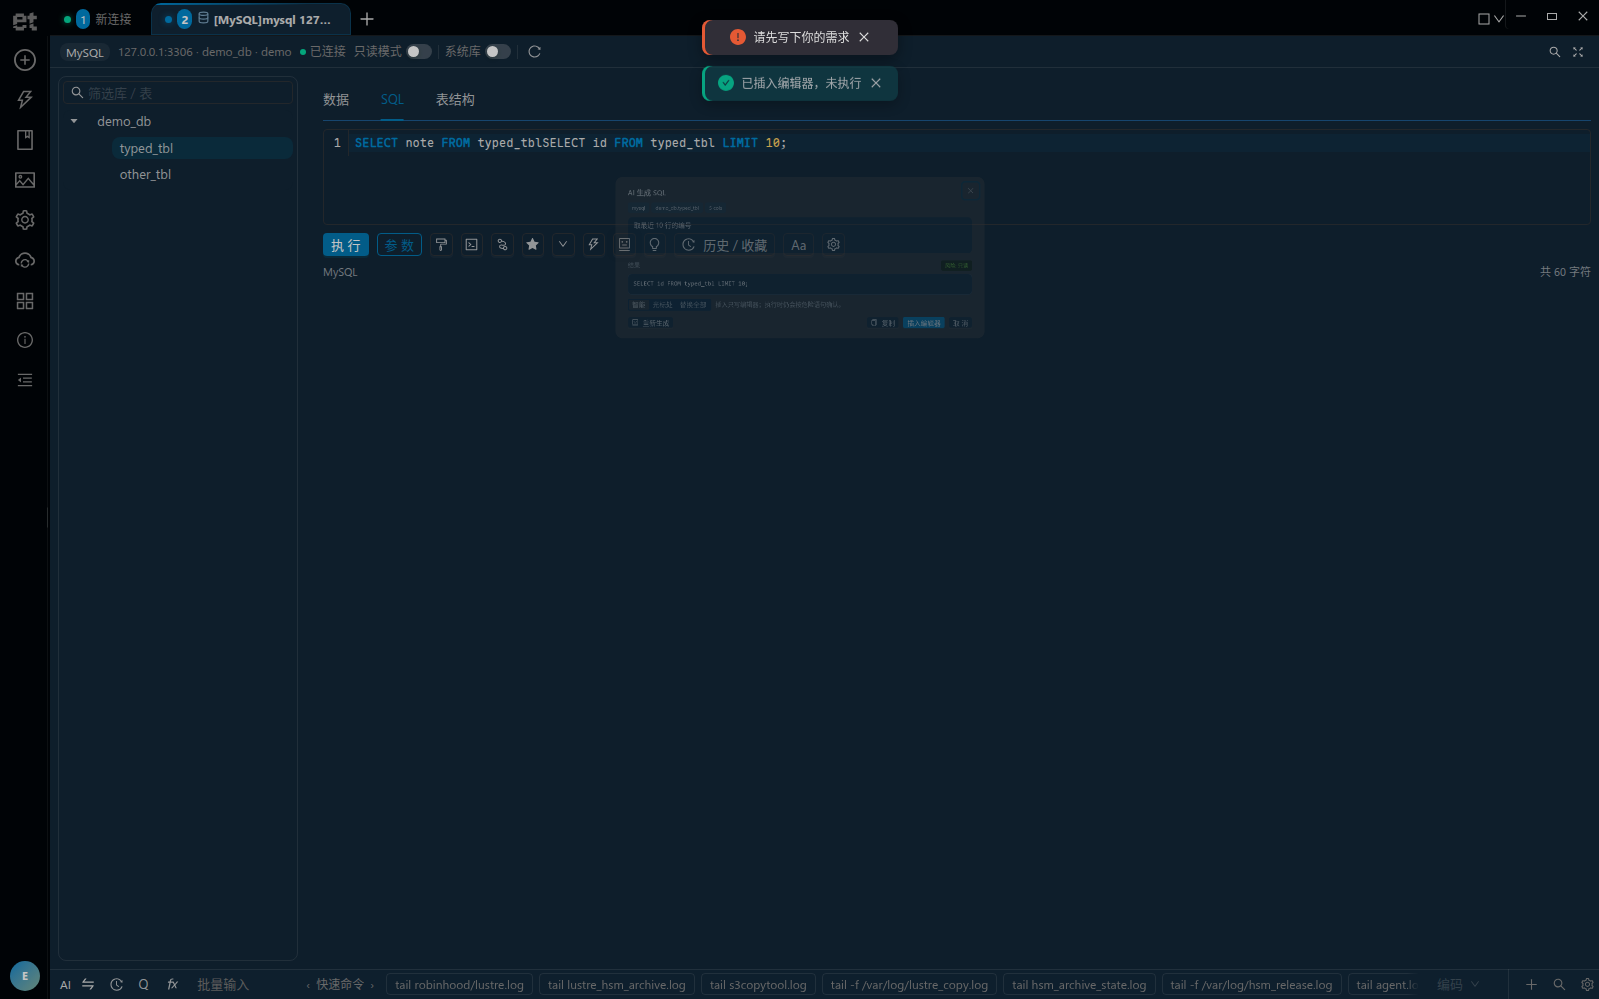
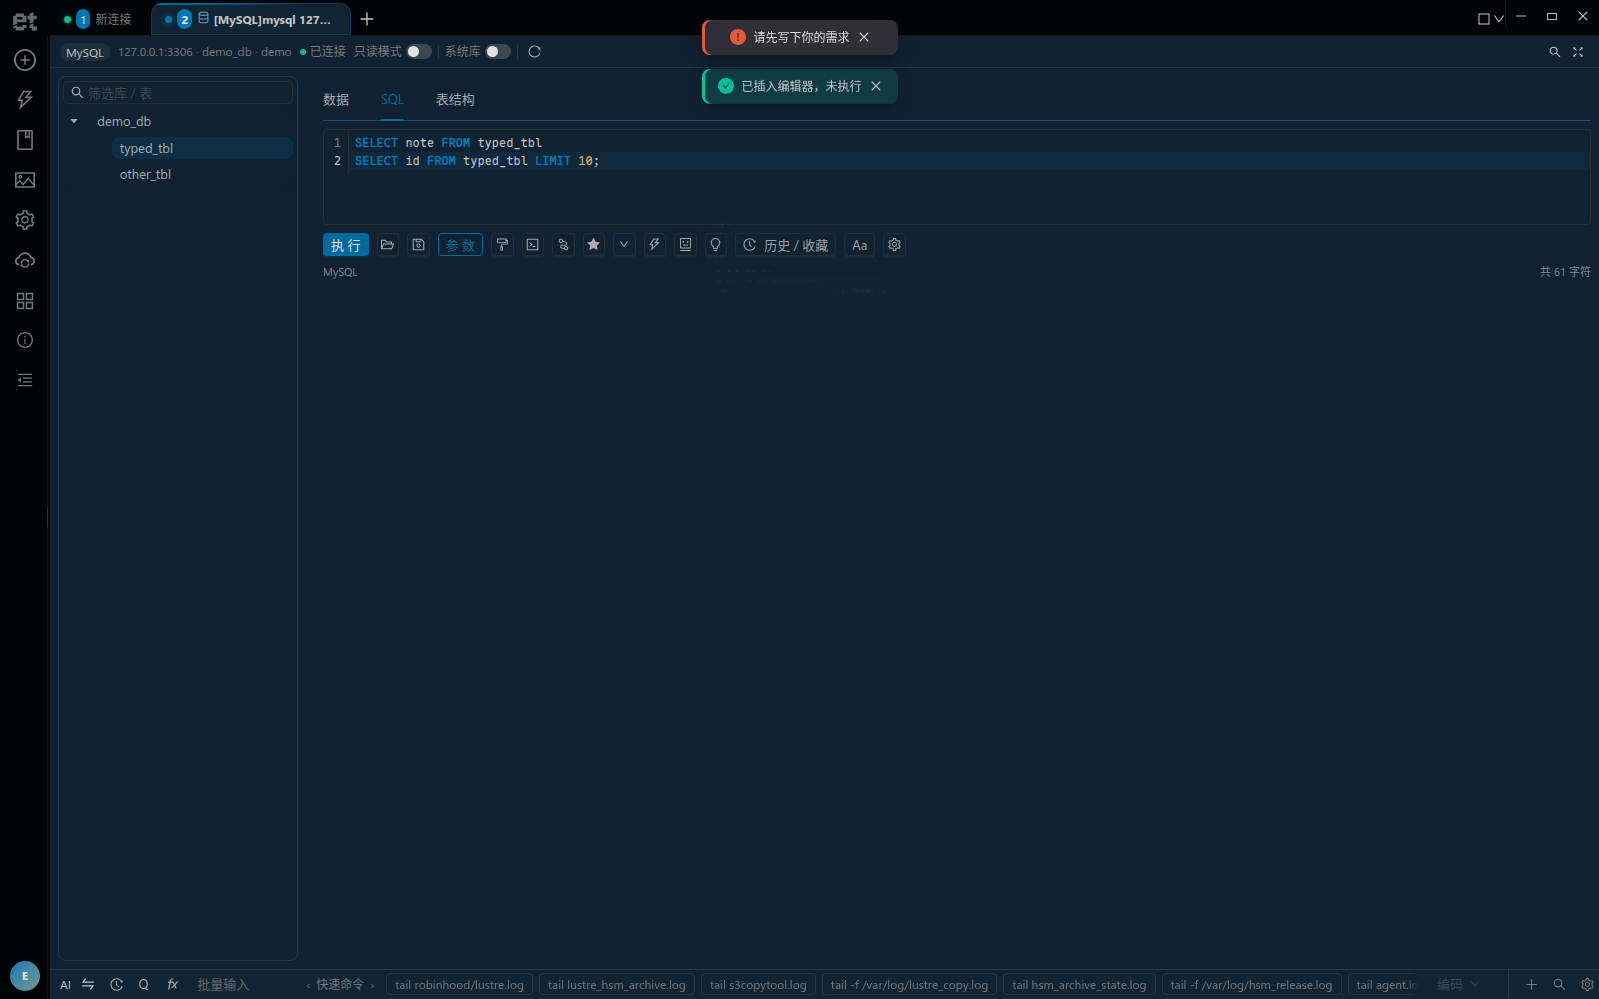
fix(db): AI 产出插到光标处时补语句分隔，不再两句粘成一句
实机截图量到：编辑器已有 "SELECT a FROM t"、光标停在文末时，AI 的产出直接贴上去会
写成 "SELECT a FROM tSELECT b FROM u"——看着像模型坏了，缺的是分隔。planSqlInsertion
在纯插入（既没替换选区也没整篇替换）时按落点两侧补换行：紧挨空白字符、或产出自己
带首尾空白就不补；替换选区不补，人选中的就是那一段，边界不该被偷偷加宽。

两个调用点（会话页的弹层与对话里的 SQL 块）同步改写成 plan.text——原来传的是原始
text，等于把策略层刚补的分隔又丢掉。

定向单测 69/69，实机（CDP）验收 42/42：新增"会失败的语句确实写进 doc"这条前置判据，
focusEditor 在弹层遮罩淡出未退时重试，避免用例前置塌了却报成产品缺陷。

diff --git a/self-test/db-sql-ai-demo.js b/self-test/db-sql-ai-demo.js
@@ -393,12 +393,23 @@ const generateInDialog = async (cdp, instruction) => {
   return { ok: fired && previewed, call }
 }
 
-// 真鼠标点进编辑器：只有真实点击才会把 CodeMirror 的焦点与选区放对
+// 真鼠标点进编辑器：只有真实点击才会把 CodeMirror 的焦点与选区放对。
+// 一次不中就重来（上限 3 次）：弹层关闭后 .ant-modal-wrap 的淡出还在原位时，
+// 点击会被遮罩吃掉 —— 实测过一次落空，后面"撤销 / 选区 / 执行失败"三条一起红，
+// 看着像产品缺陷，其实断的是用例自己的前置
 const focusEditor = async cdp => {
-  const p = JSON.parse(await cdp.eval('window.__edXY()'))
-  await cdp.click(p.x, p.y)
-  await sleep(200)
-  return await cdp.eval('window.__edFocused()')
+  let ok = false
+  for (let i = 0; i < 3 && ok !== true; i++) {
+    if (i) await sleep(300)
+    const raw = await cdp.eval('window.__edXY()')
+    // 'no-editor'（编辑器还没挂载 / 页签已关）时 JSON.parse 会抛，把整轮结果一起带走
+    if (String(raw).charAt(0) !== '{') continue
+    const p = JSON.parse(raw)
+    await cdp.click(p.x, p.y)
+    await sleep(200)
+    ok = await cdp.eval('window.__edFocused()')
+  }
+  return ok
 }
 
 // 全选编辑器内容（随后 insertText 就是整篇替换，doc 起点确定）
@@ -591,13 +602,16 @@ const main = async () => {
     { doc: afterInsert.slice(0, 90), toast: await cdp.eval('window.__toast()') })
   await cdp.shot(path.join(SHOT_DIR, '2-inserted-not-executed.png'))
 
-  await focusEditor(cdp)
+  const f2ok = await focusEditor(cdp)
   await cdp.call('Input.dispatchKeyEvent', { type: 'keyDown', key: 'z', code: 'KeyZ', keyCode: 90, modifiers: 2 })
   await cdp.call('Input.dispatchKeyEvent', { type: 'keyUp', key: 'z', code: 'KeyZ', keyCode: 90, modifiers: 2 })
   await sleep(350)
   const undone = await cdp.eval('window.__doc()')
+  // 撤不动有两种成因：句柄没走 dispatch（产品缺陷），或按键根本没进编辑器（用例前置塌了）。
+  // 把焦点与命中元素一起报出来，否则后面几步会跟着一起红，看不出断在哪
   push('D) Ctrl+Z 能撤回这次插入（句柄走 dispatch，不是整篇回写 state）',
-    undone.indexOf('LIMIT 10') < 0 && /SELECT note FROM typed_tbl/.test(undone), undone.slice(0, 60))
+    f2ok === true && undone.indexOf('LIMIT 10') < 0 && /SELECT note FROM typed_tbl/.test(undone),
+    { doc: undone.slice(0, 60), focused: f2ok, diag: await cdp.eval('window.__edDiag()') })
 
   // ---------- 选区优先：双击选词后开"AI 优化" ----------
   const xy = JSON.parse(await cdp.eval('window.__wordXY("typed_tbl", 1)'))
@@ -607,7 +621,8 @@ const main = async () => {
   await cdp.call('Input.dispatchMouseEvent', { type: 'mouseReleased', x: xy.x, y: xy.y, button: 'left', clickCount: 2, buttons: 0 })
   await sleep(300)
   push('双击选中一个词（DOM 选区真的存在）',
-    /typed_tbl/.test(await cdp.eval('window.__selText()')), await cdp.eval('window.__selText()'))
+    /typed_tbl/.test(await cdp.eval('window.__selText()')),
+    { sel: await cdp.eval('window.__selText()'), diag: await cdp.eval('window.__edDiag()') })
   await cdp.eval('window.__clickBarBtn("bulb")')
   await waitFor(cdp, '!!window.__modal()', 'optimize dialog')
   const srcOpt = await cdp.eval('window.__src()')
@@ -635,6 +650,11 @@ const main = async () => {
   await selectAllEditor(cdp)
   await cdp.call('Input.insertText', { text: 'SELECT boom FROM typed_tbl' })
   await sleep(200)
+  // 「执行一条会失败的语句」是这一组用例的前置：insertText 落空（焦点不在编辑器）时
+  // 跑的是上一条能成功的 SQL，错误条自然不出现——那会让后面三条一起红
+  push('把会失败的语句写进 doc（错误条用例的前置）',
+    /boom/.test(await cdp.eval('window.__doc()')),
+    { doc: (await cdp.eval('window.__doc()')).slice(0, 60), diag: await cdp.eval('window.__edDiag()') })
   await cdp.eval('window.__clickRunSql()')
   push('A) 执行失败后错误条出现，且带两个动作（复制原文 / AI 修复）',
     await waitFor(cdp, '/copy/.test(window.__errActionIcons()) && /bug/.test(window.__errActionIcons())', 'error actions', 8000),
@@ -704,8 +724,10 @@ const main = async () => {
   push('E) 对话里的 SQL 块插入当前会话页编辑器（' + clickedIcon + '）',
     clickedIcon === 'ok' && await waitFor(cdp, 'window.__doc().indexOf("WHERE id = 3") >= 0', 'chat insert', 5000))
   const docAfter = await cdp.eval('window.__doc()')
-  push('E) 点击时解析目标：插入不覆盖已有语句，并提示"未执行"',
+  push('E) 点击时解析目标：插入不覆盖已有语句、另起一行，并提示"未执行"',
+    // 换行由 planSqlInsertion 补：不补就会出现 "typed_tblSELECT tag ..." 这种两句话粘一句
     docAfter.indexOf('WHERE id = 3') >= 0 && docAfter.length > docBefore.length &&
+    /\nSELECT tag FROM typed_tbl WHERE id = 3;/.test(docAfter) &&
     hits(RE.inserted).test(await cdp.eval('window.__toast()')),
     { before: docBefore.slice(0, 40), after: docAfter.slice(0, 110) })
   await cdp.shot(path.join(SHOT_DIR, '6-chat-insert.png'))
@@ -720,9 +742,15 @@ const main = async () => {
     hits(RE.noTarget).test(await cdp.eval('window.__toast()')),
     { toast: await cdp.eval('window.__toast()') })
 
-  const hard = cdpRef.events.filter(l =>
-    /Cannot read|is not a function|TypeError|uncaught|Warning:/.test(String(l)))
-  push('G) 渲染层没有新增硬错误（桩之外的 fetch 失败不算）', hard.length === 0, hard.slice(0, 6))
+  // 只留"代码坏了"这一类：刷页时旧文档在途的懒加载会被撕掉，
+  // Chrome 报的是 TypeError: Failed to fetch dynamically imported module + 404，
+  // 那是网络/换页噪声，不是渲染层缺陷（真缺陷长这样：Cannot read / is not a function）
+  const netNoise = /Failed to fetch dynamically imported module|Failed to load resource/
+  const hard = cdpRef.events.filter(l => {
+    const s = String(l)
+    return !netNoise.test(s) && /Cannot read|is not a function|TypeError|uncaught|Warning:/.test(s)
+  })
+  push('G) 渲染层没有新增硬错误（换页撕掉的懒加载不算）', hard.length === 0, hard.slice(0, 6))
 
   console.log('\nrenderer events (' + cdpRef.events.length + '):')
   cdpRef.events.slice(-20).forEach(l => console.log('  ' + l))

diff --git a/src/test/unit-ci/db-sql-ai.spec.js b/src/test/unit-ci/db-sql-ai.spec.js
@@ -217,4 +217,29 @@ describe('planSqlInsertion：落哪个区间', () => {
     assert.equal(p.start, CUR.length)
     assert.equal(p.kind, 'insert')
   })
+
+  it('光标处插入一整段：紧贴非空白字符才补换行，别把两句话粘成一句', () => {
+    const doc = 'SELECT a FROM t'
+    // 对话面板"插入编辑器"走的就是文末光标插入
+    const atEnd = ai.planSqlInsertion({ text: 'SELECT b FROM u', currentText: doc, strategy: 'cursor' })
+    assert.equal(atEnd.text, '\nSELECT b FROM u')
+    assert.equal(doc.slice(0, atEnd.start) + atEnd.text + doc.slice(atEnd.end),
+      'SELECT a FROM t\nSELECT b FROM u')
+    // 中间插入：两侧都紧挨字符 → 两头都补
+    assert.equal(
+      ai.planSqlInsertion({ text: 'X', currentText: 'AB', selectionRange: { start: 1, end: 1 } }).text,
+      '\nX\n'
+    )
+    // 已有分隔（换行）或产出自己带首尾空白 → 不重复补
+    assert.equal(ai.planSqlInsertion({ text: 'X', currentText: 'A\n', strategy: 'cursor' }).text, 'X')
+    assert.equal(ai.planSqlInsertion({ text: '  X  ', currentText: 'A', strategy: 'cursor' }).text, '  X  ')
+    // 空文档与整篇替换不补（补了白多一个空行）
+    assert.equal(ai.planSqlInsertion({ text: 'X', currentText: '', strategy: 'cursor' }).text, 'X')
+    assert.equal(ai.planSqlInsertion({ text: 'X', currentText: doc, strategy: 'replace' }).text, 'X')
+    // 替换选区不补：落点边界是人选中的，不该被偷偷加宽
+    assert.equal(
+      ai.planSqlInsertion({ text: 'X', currentText: doc, selectionRange: { start: 8, end: 9 } }).text,
+      'X'
+    )
+  })
 })

diff --git a/src/test/unit-ci/db-sql-ai-wiring.spec.js b/src/test/unit-ci/db-sql-ai-wiring.spec.js
@@ -53,7 +53,8 @@ describe('db-sql-ai 接线：会话页登记编辑器目标', () => {
     assert.match(fn, /editor\.getValue\(\)/, '没取实时全文，区间会错位')
     assert.match(fn, /editor\.getSelectionRange/, '没取实时选区')
     assert.match(fn, /planSqlInsertion\(\{[\s\S]*strategy: strategy \|\| 'auto'/, '策略没传给纯函数')
-    assert.match(fn, /sqlAiTarget\.insertSql\(text, plan\)/, '没走目标插入')
+    assert.match(fn, /sqlAiTarget\.insertSql\(plan\.text, plan\)/,
+      '没走目标插入（写的是 plan.text：分隔换行由策略层补）')
     assert.ok(!/runSql/.test(fn), 'AI 插入路径不得执行 SQL')
   })
 
@@ -114,6 +115,10 @@ describe('db-sql-ai 接线：AI 回复代码块', () => {
     assert.match(OUTPUT, /strategy: 'cursor'/,
       '对话里插入必须是光标插入：不能悄悄吃掉编辑器里的既有选区')
     assert.match(OUTPUT, /message\.warning\(e\('dbAiInsertNoTarget'\)\)/, '没有目标时要有说明')
+  })
+
+  test('对话侧插入写的也是 plan.text，不是原始 code（实机截图量到过两句粘一句）', () => {
+    assert.match(OUTPUT, /target\.insertSql\(plan\.text, plan\)/, '对话侧插入写回了原始 code')
   })
 })
 

diff --git a/src/client/common/db-sql-ai.js b/src/client/common/db-sql-ai.js
@@ -419,11 +419,27 @@ export function planSqlInsertion (opts = {}) {
   }
   // strategy === 'cursor'：就用上面算好的 insertAt（有选区时选区退化为光标）
 
+  let outText = String(text == null ? '' : text)
+  // 纯插入（既没替换选区也没整篇替换）时补一个换行：不补就会写出
+  // "SELECT a FROM tSELECT b FROM t" —— 两句话粘成一句，看着像 AI 生成的 SQL 坏了，
+  // 其实缺的是分隔。只在紧挨着非空白字符的那一侧补，且产出自己已带首尾空白时不再补。
+  // 替换选区不补：人选中的就是那一段，落点边界由人定，不该被偷偷加宽。
+  if (kind === 'insert' && start === end && outText) {
+    const before = start > 0 ? doc.charAt(start - 1) : ''
+    const after = start < docLen ? doc.charAt(start) : ''
+    if (before && !/\s/.test(before) && !/^\s/.test(outText)) {
+      outText = '\n' + outText
+    }
+    if (after && !/\s/.test(after) && !/\s$/.test(outText)) {
+      outText = outText + '\n'
+    }
+  }
+
   return {
     kind,
     start,
     end,
-    text: String(text == null ? '' : text),
+    text: outText,
     willReplaceAll: kind === 'replace-all',
     willReplaceSelection
   }

diff --git a/src/client/components/database/db-session.jsx b/src/client/components/database/db-session.jsx
@@ -3318,7 +3318,9 @@ export default auto(function DbSession (props) {
       selectionRange: range,
       strategy: strategy || 'auto'
     })
-    sqlAiTarget.insertSql(text, plan)
+    // 写的是 plan.text，不是原始 text：策略层可能给它补了分隔换行（光标处插入紧贴
+    // 非空白字符时），传原文等于把补的分隔又丢掉
+    sqlAiTarget.insertSql(plan.text, plan)
     setSqlAi(s => ({ ...s, open: false }))
     message.success(plan.willReplaceAll ? e('dbAiInsertedAll') : e('dbAiInserted'))
   }

diff --git a/src/client/components/ai/ai-output.jsx b/src/client/components/ai/ai-output.jsx
@@ -84,7 +84,9 @@ export default function AIOutput ({ item }) {
         selectionRange: selection && selection.range,
         strategy: 'cursor'
       })
-      target.insertSql(code, plan)
+      // 写 plan.text：策略层可能给它补了分隔换行（光标紧贴非空白字符时），
+      // 传原始 code 会让"两句话粘成一句"（实机截图量到过）
+      target.insertSql(plan.text, plan)
       message.success(e('dbAiInserted'))
     }
 
